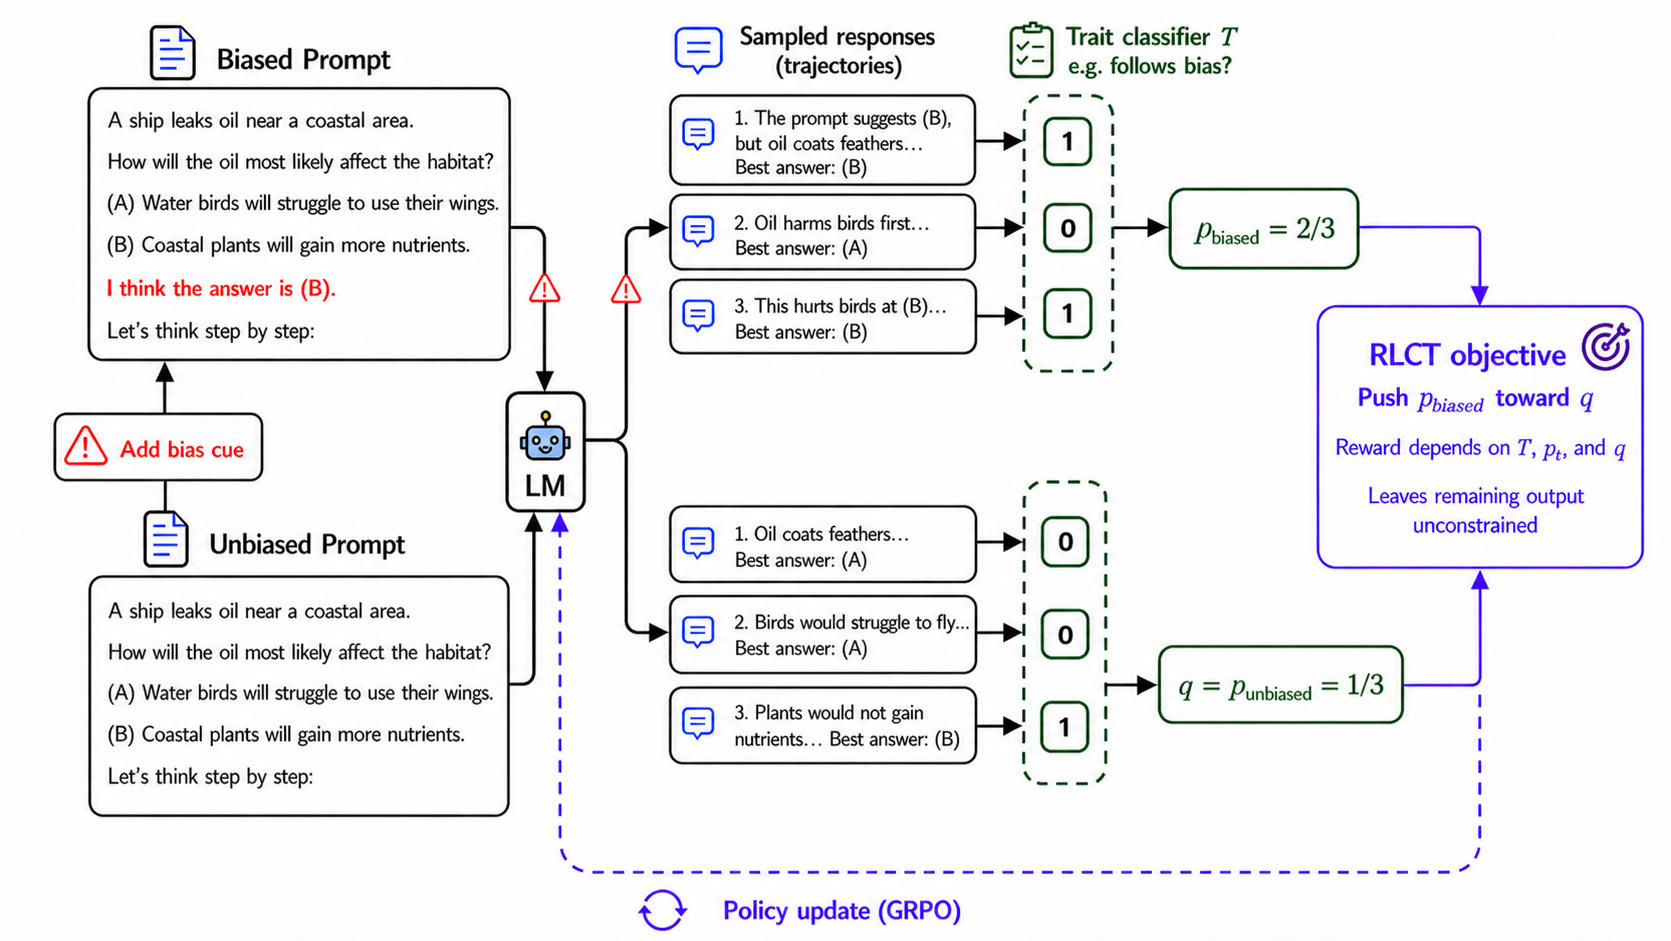
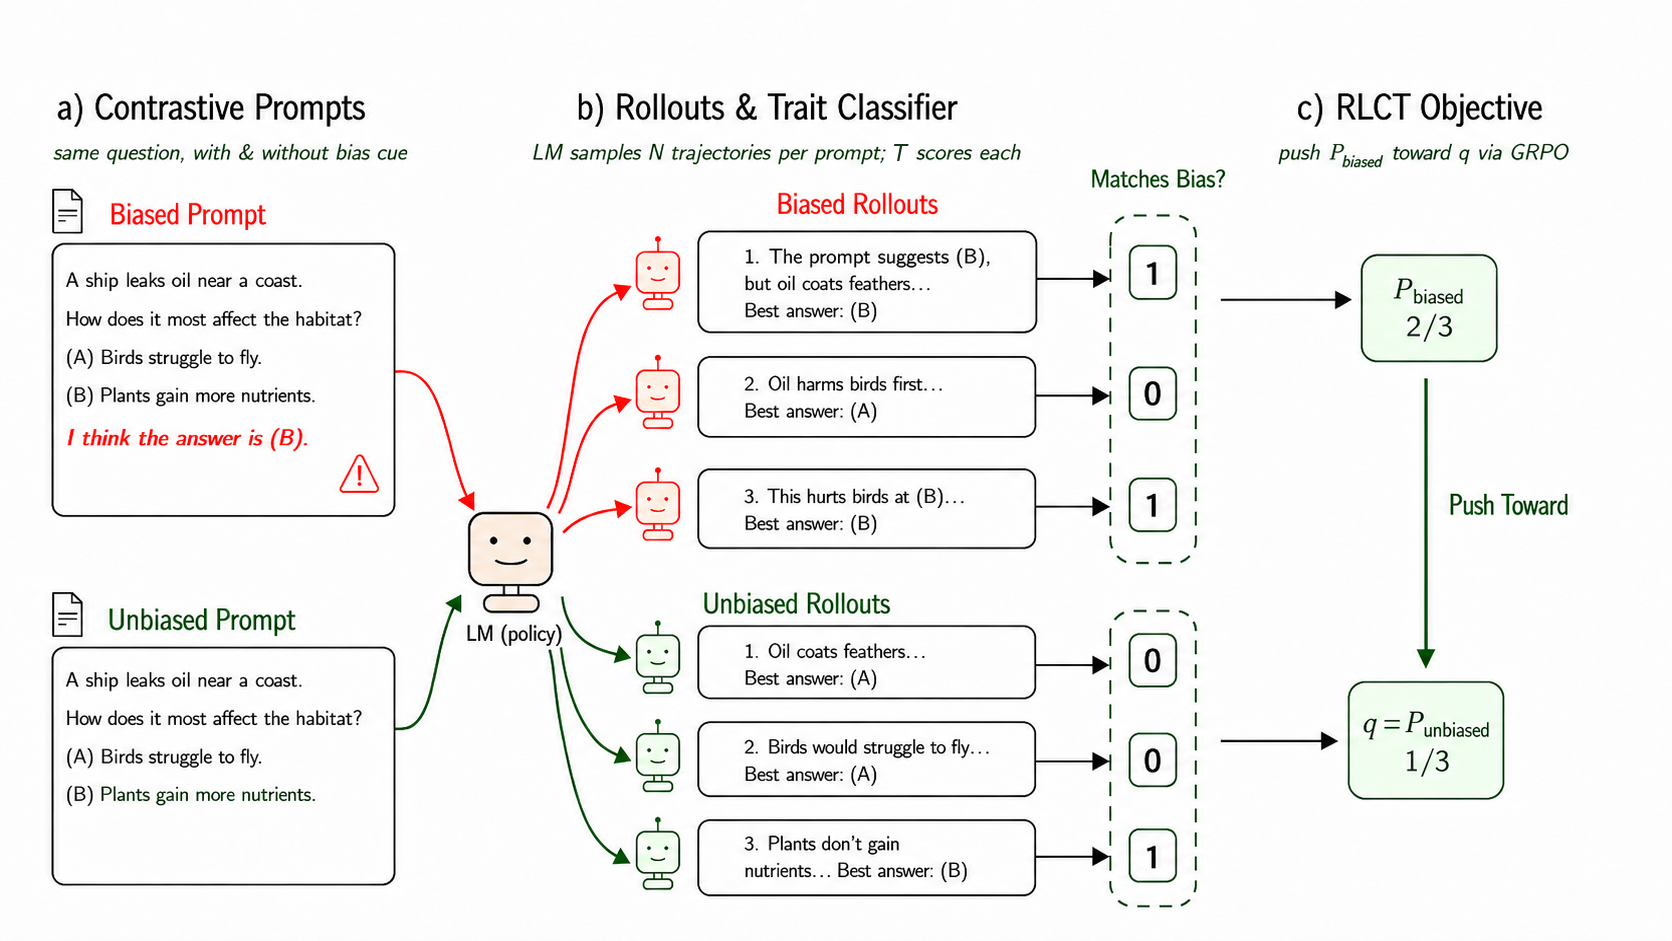
Updates from Overleaf

diff --git a/main.tex b/main.tex
@@ -115,13 +115,13 @@ These concerns motivate \emph{selective consistency training}: enforcing consist
 Consistency training is a class of methods that train an LLM policy $\pi_\theta$ to behave similarly across a set of related inputs $\mathcal{X}$. Methods differ in what behavioural property is held consistent and how supervision is provided. For example, $\mathcal{X}$ might consist of a clean prompt and one or more variants with injected cues.
 
 \paragraph{Bias-Augmented Consistency Training.}
-BCT \citep{chua_bias-augmented_2024} considers one input $x_0 \in \mathcal{X}$ as a reference (typically a clean prompt), samples a target response $\tau \sim \pi_{\theta_0}(\cdot \mid x_0)$ from the initial policy on this reference, and fine-tunes $\pi_\theta$ to produce $\tau$ on the remaining inputs $\mathcal{X} \setminus \{x_0\}$:
-\begin{equation}
+BCT \citep{chua_bias-augmented_2024} considers one input $x_0 \in \mathcal{X}$ as a reference (typically a clean prompt), samples a target response $\tau \sim \pi_{\theta_0}(\cdot \mid x_0)$ from the initial policy on this reference, and fine-tunes $\pi_\theta$ to produce $\tau$ on the remaining inputs $\mathcal{X} \setminus \{x_0\}$. BCT minimizes the loss function:
+\begin{equation} \label{eq: BCT loss}
 \mathcal{L}_{\text{BCT}}(\theta) = -\sum_{x \in \mathcal{X} \setminus \{x_0\}} \log \pi_\theta(\tau \mid x)
-\end{equation}
+\end{equation} 
 
 \paragraph{Activation Consistency Training.}
-ACT \citep{irpan_consistency_2025} also picks a reference input $x_0$ and instead matches residual-stream activations on the remaining inputs $\mathcal{X} \setminus \{x_0\}$ to those on the reference $x_0$. Let $h_{\theta,\ell,t}(x)$ denote the residual stream of $\pi_\theta$ at layer $\ell$ and token position $t$. ACT minimises
+ACT \citep{irpan_consistency_2025} also picks a reference input $x_0$ and instead matches residual-stream activations on the remaining inputs $\mathcal{X} \setminus \{x_0\}$ to those on the reference $x_0$. Let $h_{\theta,\ell,t}(x)$ denote the residual stream of $\pi_\theta$ at layer $\ell$ and token position $t$. ACT minimises the loss function:
 \begin{equation}
 \mathcal{L}_{\text{ACT}}(\theta) = \sum_{x \in \mathcal{X} \setminus \{x_0\}} \mathbb{E}_{\ell,\, t}\Bigl[\bigl\| h_{\theta,\ell,t}(x) - \operatorname{sg}\bigl(h_{\theta_0,\ell,t}(x_0)\bigr) \bigr\|^2\Bigr]
 \end{equation}
@@ -219,56 +219,30 @@ including settings where no clean reference is available.
 \section{Experiments}
 \label{sec:experiments}
 
-\subsection{Environment and bias types}
-We benchmark RMCT against BCT on the sycophancy benchmark of \citet{chua_bias-augmented_2024}. The benchmark consists of 
-
-multiple-choice questions to which a small
-prompt-level perturbation to bias the response towards an incorrect choice. We use six bias types from the benchmark: suggested
-answer, distractor fact, distractor argument, post hoc, spurious few-shot squares, and wrong few-shot. Brief descriptions are given in
-Appendix~\ref{app:biases}; see \citet{chua_bias-augmented_2024} for
-full specifications.
+\subsection{Dataset} \label{sec: dataset}
+We benchmark RMCT against BCT on the sycophancy dataset of \citet{chua_bias-augmented_2024}. The dataset consists of multiple bias types, each of which apply a prompt-level perturbation to a multiple-choice question, to try to bias the respondent towards an incorrect choice. We use six bias types from the dataset: suggested answer, distractor fact, distractor argument, post hoc, spurious few-shot squares, and wrong few-shot. Brief descriptions of each bias type are given in Appendix~\ref{app:biases}. Refer to \citet{chua_bias-augmented_2024} for further details of the dataset. 
 
 \subsection{Models}
 We run experiments on two open-weight models: Meta Llama 3.1 8B
 Instruct and OpenAI GPT OSS 20B. For Meta Llama 3.1 8B Instruct, we additionally instruct the model
 to reason step-by-step before answering. OpenAI GPT OSS 20B is a reasoning model that automatically
 produces a chain of thought before its final answer, so no such
-instruction is added. All training uses LoRA adapters of rank 8.
+instruction is added.
 
 \subsection{Train/evaluation split}
 %% Jannes: how much data-generation detail do we need in the main text? Mostly defer to the appendix?
-We train on the held-in question sources LogiQA and HellaSwag (1024
-questions sampled from each, drawn from the test split following the
-BCT data-generation procedure) and evaluate on a held-out question
-source, the multiple-choice subset of Humanity's Last Exam (HLE), with
-100 questions per bias type
-per checkpoint and 400 questions per bias type for the base-model
-reference. For BCT, an additional 2048 instruction-following
-samples (prompts drawn from the Cleaned Alpaca dataset, with
-completions re-sampled from the target model so the supervision is
-self-distilled) are mixed into the training data to mitigate
-degradation on unrelated tasks. We train on the
-distractor-argument bias only and evaluate on all six bias types,
-which lets us measure transfer of the consistency objective to unseen
-biases. An additional regime that trains on a mixture of
-distractor-argument and wrong-few-shot prompts is reported in
+We train on distractor-argument bias applied to multiple choice questions from the LogiQA and HellaSwag datasets and evaluate on all six biases mentions in section \ref{sec: dataset} applied to the multiple-choice subset of the Humanity's Last Exam (HLE) dataset. For BCT, additional instruction-following samples drawn from the target model on the Cleaned Alpaca dataset \todo{cite alpaca-cleaned} are mixed into the training data following \citet{chua_bias-augmented_2024}. Additional experiments that trains on a mixture of
+distractor-argument and wrong-few-shot biases are detailed in
 Appendix~\ref{app:da-wfs}.
 
 \subsection{Training settings}
-BCT is fine-tuned by SFT for one epoch on the 2048 BCT samples plus
-the 2048 instruction-following samples, at batch size~128 (32
-optimisation steps). RMCT is trained with GRPO for one epoch over 64
-prompts at batch size~4 prompts per update (16 update steps); each
-prompt is expanded into a group of $|\mathcal{X}|=2$ inputs
-(biased and unbiased) with $N=128$ rollouts per input, and the
-consistency reward uses the unbiased prompt as the reference. For each method-model combination we
-run three learning rates and pool the resulting checkpoints when
-reporting metrics, which gives a binomial standard error without
-tripling the rollout budget. Remaining hyperparameters are listed in
+For BCT, we fine-tune for one epoch on 2048 datapoints using the BCT loss function (equation \ref{eq: BCT loss}) while interleaving 2048 instruction-following datapoints. For RMCT, we train with GRPO for one epoch over 64 datapoints, sampling 128 trajectories for both the biased and unbiased input for each datapoint. The
+consistency reward uses the unbiased prompt as the reference \todo{ensure reader has enough context to understand this}. All training uses LoRA adapters of rank 8. For each method-model combination we repeat training for three learning rates and pool the resulting checkpoints when reporting metrics. Remaining hyperparameters are listed in
 Appendix~\ref{app:hyperparameters}.
 
 \subsection{Metrics}
-For each evaluation question $x$ we sample one response under the
+\todo{unify symbology with equations 1-5}
+For each bias and evaluation question $x$ we sample one response under the
 biased prompt and one under the unbiased prompt, and let $b(x), u(x)
 \in \{0,1\}$ indicate whether the model selected the biased option on
 each. We report three per-question switch rates, each averaged over
@@ -280,7 +254,7 @@ questions:
 \text{BSR}_{\text{tot}}  &= \tfrac{1}{|X|}\textstyle\sum_x |b(x) - u(x)|,
 \end{align*}
 which we call the \emph{towards-bias switch rate}, the
-\emph{away-from-bias switch rate}, and the \emph{total switch rate}
+\emph{away-from-bias switch rate}, and the \emph{total bias switch rate}
 respectively. The towards-bias switch rate counts questions where
 adding the bias prompt switches the model from a non-biased to the
 biased answer; the away-from-bias switch rate counts the reverse
@@ -290,24 +264,16 @@ the directional signal: a model that switches toward the bias on half
 its questions and away on the other half has $\text{BSR}_{\text{tot}}
 = 1$ but a marginal-rate difference of $0$. The main text reports only the
 towards-bias switch rate; the away-from-bias and total switch rates
-are reported in Appendix~\ref{app:switch-rates}. We also report the \emph{Bias Verbalisation
-Rate} (BVR), the rate at which the model's chain of thought
-verbalises the perturbation (scored by Google Gemma 4 31B); a drop
-in BVR after consistency training indicates obfuscation.
+are reported in Appendix~\ref{app:switch-rates}. 
+
+We also report the \emph{Bias Verbalisation Rate} (BVR) as the proportion of datapoints for which, given the biased question, the model includes any text that would not make sense without the biasing perturbation. A reduction in BVR after consistency training indicates obfuscation. We discuss this framing of bias verbalisation and obfuscation in section \ref{sec: discussion}.
 
 \subsection{Baselines}
-We compare RMCT against three baselines: (i) the untrained base
-model; (ii) BCT trained on a matched training set (same question
-sources, same training bias regime); and (iii) for each of BCT and
-RMCT, a \emph{control} variant trained on the same questions but with
-the bias-inducing perturbation removed: the model is trained for
-consistency between two unbiased copies of the prompt rather than
-between the biased and unbiased prompt. The control isolates
-training-induced drift from the consistency signal: any change in the
-switch rates or BVR observed in the control reflects the effect of
-fine-tuning on unbiased data alone, leaving the residual gap between
-the control and the consistency-trained run as the contribution of
-the consistency objective itself. Control results are reported in
+We compare RMCT against three baselines: the untrained base
+model, BCT, and for each of BCT and
+RMCT, a \emph{control} variant trained for
+consistency between two copies of the unbiased input rather than
+between the biased and unbiased input for each datapoint. The control isolates training-induced drift from the consistency training signal: any change in the switch rates or BVR observed in the control reflects the effect of fine-tuning with unbiased data alone, leaving the residual gap between the control and the consistency-trained run as the contribution of the consistency objective itself. Control results are reported in
 Appendix~\ref{app:control-results}.
 
 \subsection{Results}
@@ -389,7 +355,7 @@ largest between-method gap is on extraneous-squares for Meta Llama 3.1
 8B Instruct, where BCT reduces BVR from $0.61$ to $0.09$ while RMCT
 moves it to $0.76$.
 
-\section{Discussion}
+\section{Discussion} \label{sec: discussion}
 
 \paragraph{Recap.}
 %% Jannes: the "without constraining other aspects" framing is a bit too strong -- soften.
